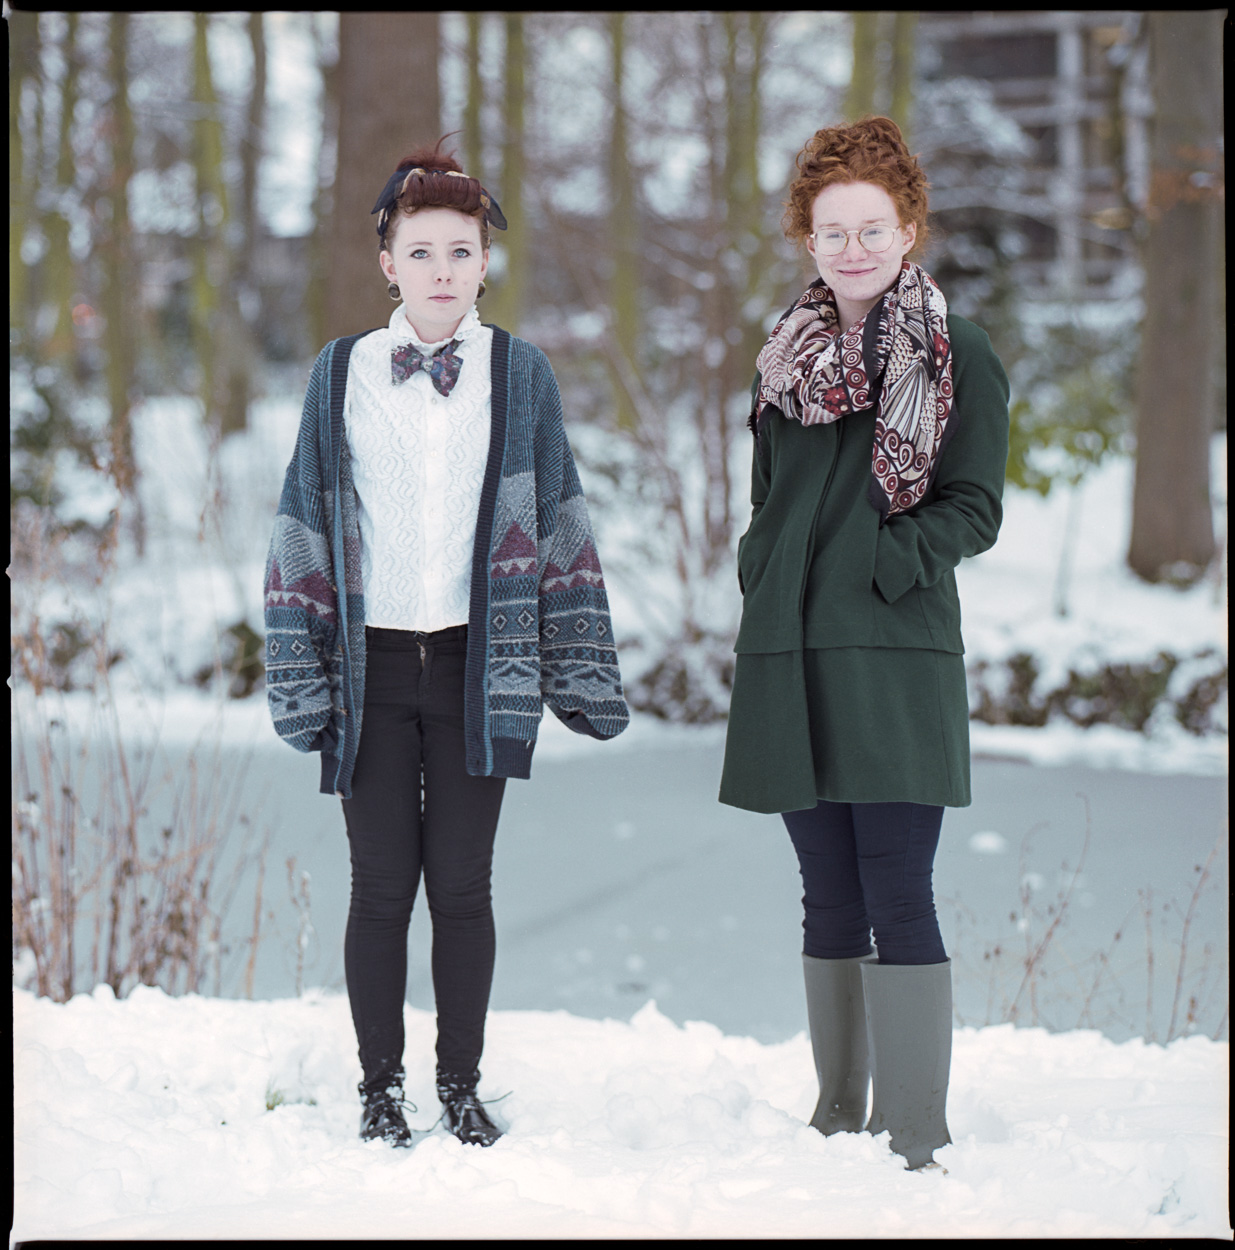
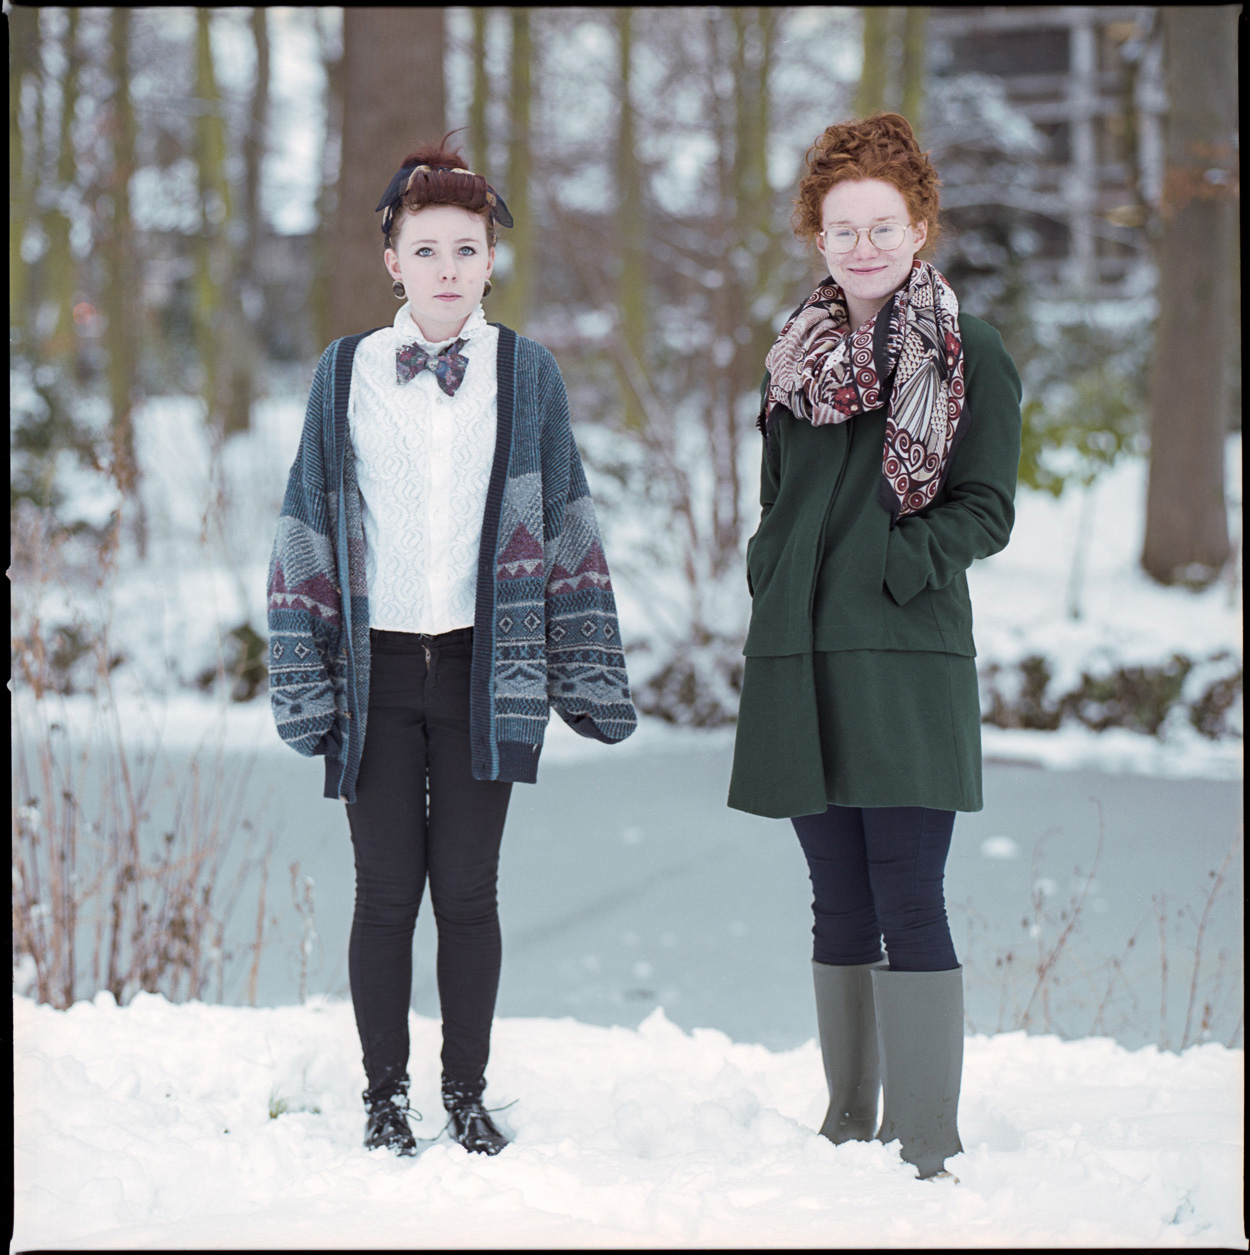
try to fix image scaling

diff --git a/_posts/2017-03-08-ten_years_with_a_hasselblad.md b/_posts/2017-03-08-ten_years_with_a_hasselblad.md
@@ -46,7 +46,7 @@ The second is to tighten your composition. If you bring the camera up to your ey
 
 Related to tightening the composition is not pointing the camera up at close distance. If you are shooting a photo of someone, specifically a half body type portrait, and using the camera at waist level you will be pointing the camera up. This leads to an outcome that looks like you or your subject are falling over. Maybe this can be used for creative effect, but most of the time it looks bad. Bring the camera up to your eye and you prevent this.
 
-<img height="625px" src="{{ site.baseurl }}/images/2017/03/03.jpg" />
+<img width="625px" src="{{ site.baseurl }}/images/2017/03/03.jpg" />
 <div class="nav_text">Cambridge, 2012</div>
 
 **Focus discipline**
